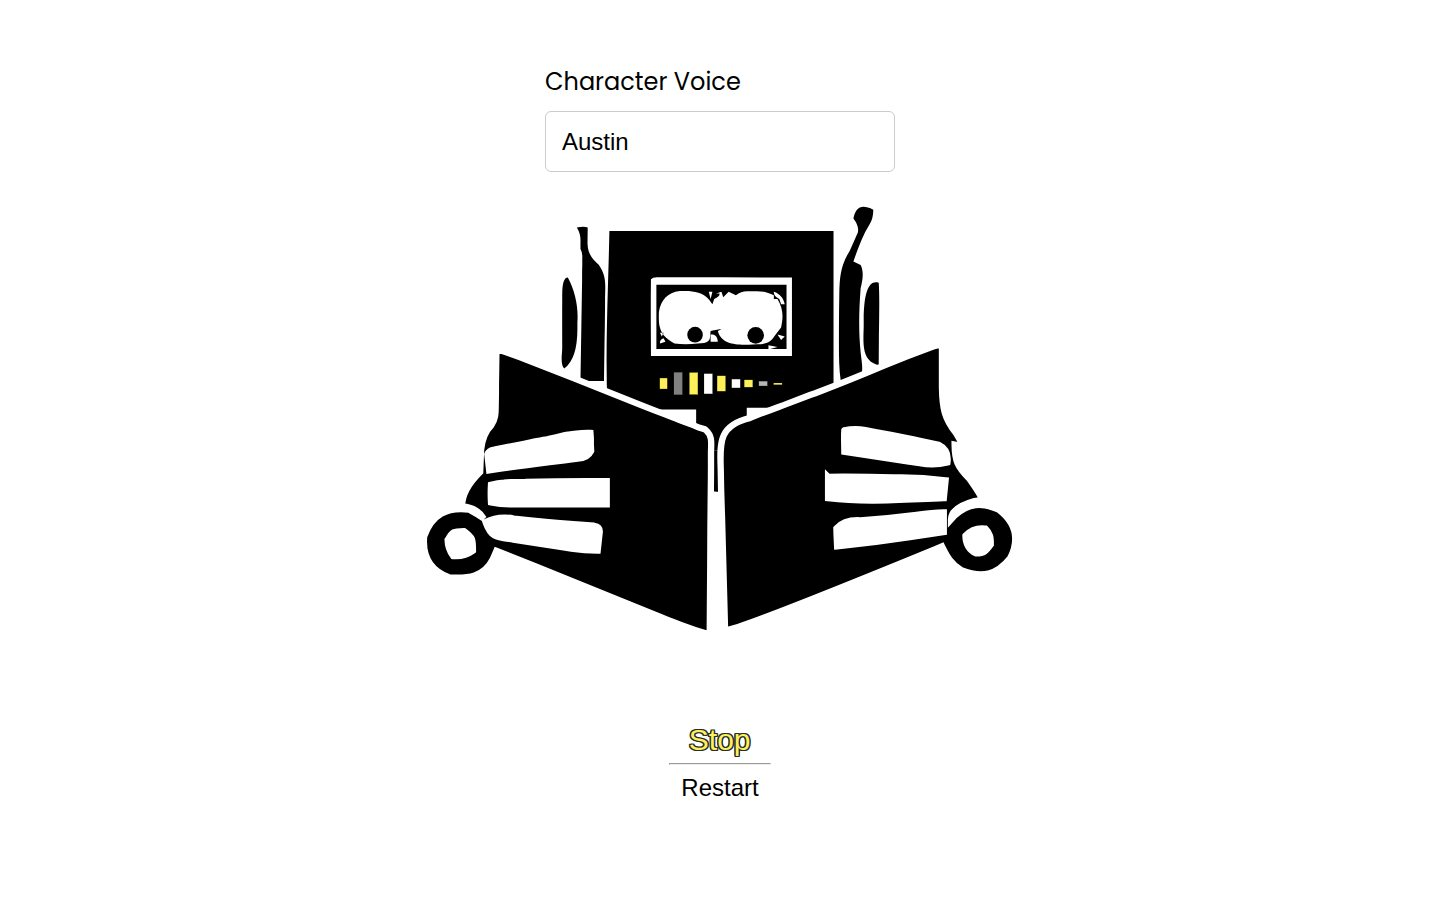
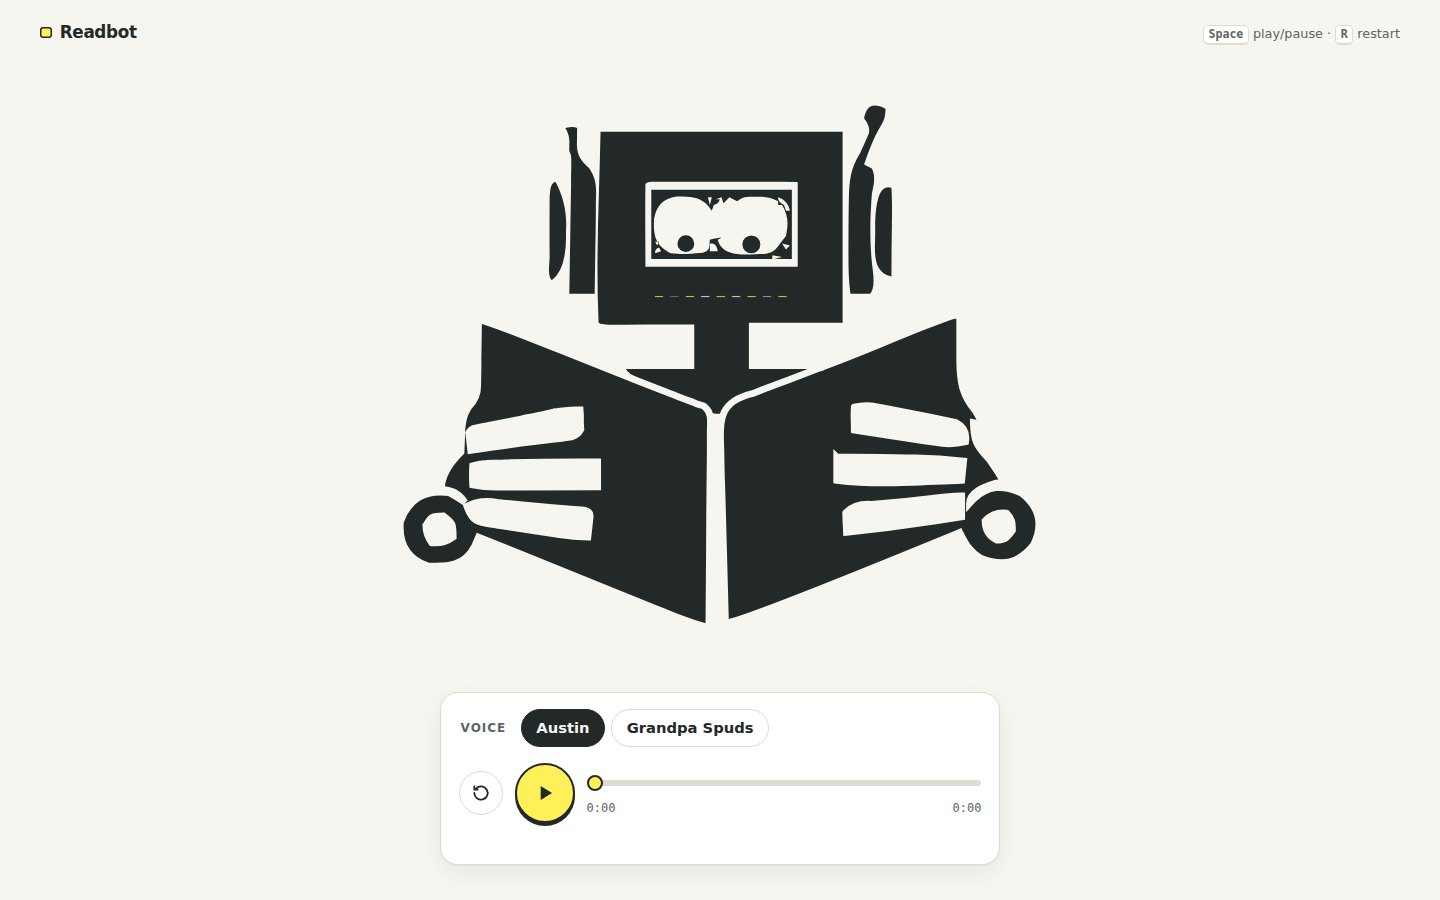
Examples: add WhenThen as second feature, Readbot update, momentum line on every build
Claude-Session: https://claude.ai/code/session_01RtmvTkGpueHcxQM5F7qZZk

diff --git a/src/components/ExamplesSection.vue b/src/components/ExamplesSection.vue
@@ -1,6 +1,6 @@
 <script setup lang="ts">
 import { computed, onBeforeUnmount, onMounted, reactive, ref } from 'vue';
-import { mdiOpenInNew, mdiPlayCircleOutline } from '@quasar/extras/mdi-v7';
+import { mdiOpenInNew, mdiPlayCircleOutline, mdiArrowRightThin } from '@quasar/extras/mdi-v7';
 import { useViewport } from '../shared/utils/viewWidth';
 import { useMainStore } from '../stores/main';
 import { TopicName } from 'src/shared/constants/topicName';
@@ -14,6 +14,8 @@ import fizzcoA from 'src/assets/examples/fizzco-a.jpg?w=720;1200&format=avif;web
 import fizzcoB from 'src/assets/examples/fizzco-b.jpg?w=720;1200&format=avif;webp;jpg&as=picture';
 import seasonalA from 'src/assets/examples/seasonal-a.jpg?w=720;1200&format=avif;webp;jpg&as=picture';
 import seasonalB from 'src/assets/examples/seasonal-b.jpg?w=720;1200&format=avif;webp;jpg&as=picture';
+import whenthenA from 'src/assets/examples/whenthen-a.jpg?w=720;1200&format=avif;webp;jpg&as=picture';
+import whenthenB from 'src/assets/examples/whenthen-b.jpg?w=720;1200&format=avif;webp;jpg&as=picture';
 import robotA from 'src/assets/examples/robot-a.jpg?w=720;1200&format=avif;webp;jpg&as=picture';
 
 const mainStore = useMainStore();
@@ -32,6 +34,8 @@ interface ShowcaseItem {
   tags: string[];
   what: string;
   why: string;
+  /** How momentum (motion, pacing, sequence) is used to make the point stick. */
+  momentum: string;
   url: string;
   /** Before / after frames. The card resolves from a to b. */
   a: PictureData;
@@ -48,8 +52,9 @@ const items: ShowcaseItem[] = [
     title: 'AgentGate',
     kind: 'Concept build',
     tags: ['AI legibility', 'Trust'],
-    what: 'An AI governance platform for autonomous agents. Scroll, and a $1,200 refund request is checked for identity, authority, and policy before it’s allowed to execute.',
-    why: 'Every team adopting AI agents is asking the same thing: what is it allowed to do, and can we see why? This makes the answer readable at a glance.',
+    what: 'AI governance for autonomous agents. A $1,200 refund request has to clear identity, authority, and policy before it can execute.',
+    why: 'Every team adopting AI agents is asking what the agent is allowed to do, and whether they can see why. This makes the answer readable at a glance.',
+    momentum: 'Each scroll resolves one check, so trust builds in the same order the system grants it.',
     url: 'https://agentgate-bpb.pages.dev/',
     a: agentgateA,
     b: agentgateB,
@@ -58,12 +63,28 @@ const items: ShowcaseItem[] = [
     featured: true,
   },
   {
+    id: 'whenthen',
+    title: 'WhenThen',
+    kind: 'Concept build',
+    tags: ['Clarity', 'Trust'],
+    what: 'A launch page for a guide on behaviour verification: proving that software does exactly what its spec says, at massive scale.',
+    why: 'As AI writes and runs more of our software, proof becomes the trust signal. This takes a dense technical idea and makes it graspable in one screen.',
+    momentum: 'Given, when, then drift in the background, then resolve into one clear next step: get the guide.',
+    url: 'https://when-then.pages.dev/',
+    a: whenthenA,
+    b: whenthenB,
+    stateA: 'The idea',
+    stateB: 'The next step',
+    featured: true,
+  },
+  {
     id: 'futureframe',
     title: 'Futureframe',
     kind: 'Concept build',
     tags: ['AI legibility', 'Trust'],
-    what: 'AI age projection you scroll through. The face changes alongside the signals driving it, with uncertainty disclosed instead of hidden.',
-    why: 'AI feels like a black box when people only see the result. Showing the “why” is what makes it believable.',
+    what: 'AI age projection where the signals behind the result stay visible, and uncertainty is disclosed instead of hidden.',
+    why: 'AI feels like a black box when people only see the answer. Showing the “why” is what makes it believable.',
+    momentum: 'Scrolling moves you through time, so the result never arrives without its reasons.',
     url: 'https://futureframe-8ep.pages.dev/',
     a: futureframeA,
     b: futureframeB,
@@ -72,11 +93,12 @@ const items: ShowcaseItem[] = [
   },
   {
     id: 'robot',
-    title: 'Robot Narrator',
-    kind: 'Built for StorytAIm',
-    tags: ['AI legibility', 'Motion'],
-    what: 'Pick a voice and press play. The narrator’s waveform moves with the AI-generated speech.',
+    title: 'Readbot',
+    kind: 'Interactive build',
+    tags: ['AI legibility'],
+    what: 'An AI narrator that visibly reads along. Pick a voice and press play.',
     why: 'AI audio is invisible by default. Visible feedback shows the system is working, and who is speaking.',
+    momentum: 'Motion tracks the audio in real time, so you always know where the story is.',
     url: ROBOT_URL,
     a: robotA,
     stateA: 'Try it here',
@@ -86,9 +108,10 @@ const items: ShowcaseItem[] = [
     id: 'fizzco',
     title: 'Fizzco',
     kind: 'Concept build',
-    tags: ['Clarity', 'Motion'],
-    what: 'A launch page where the product assembles as you scroll, so the offer lands before the copy.',
-    why: 'When the product is the message, motion can show it faster than words can.',
+    tags: ['Clarity'],
+    what: 'A launch page where the product assembles as you scroll.',
+    why: 'When the product is the message, showing beats telling. The offer lands before a word is read.',
+    momentum: 'One scroll builds the product, so understanding arrives before the copy does.',
     url: 'https://fizzco.pages.dev/',
     a: fizzcoA,
     b: fizzcoB,
@@ -99,9 +122,10 @@ const items: ShowcaseItem[] = [
     id: 'seasonal',
     title: 'Seasons',
     kind: 'Motion study',
-    tags: ['Motion'],
+    tags: ['Clarity'],
     what: 'Four seasons, each with its own weather, pace, and palette, switchable in one tap.',
-    why: 'Atmosphere without noise: motion that adds presence but never competes with the content.',
+    why: 'Atmosphere only helps if it never competes with the content. This is the restraint behind every animation I ship.',
+    momentum: 'Each season sets its own pace, carrying mood without stealing focus.',
     url: 'https://seasonal-example.pages.dev/',
     a: seasonalA,
     b: seasonalB,
@@ -110,7 +134,7 @@ const items: ShowcaseItem[] = [
   },
 ];
 
-const featured = items.find((i) => i.featured)!;
+const featured = items.filter((i) => i.featured);
 const rest = items.filter((i) => !i.featured);
 
 /* ---------- Before → after playback ---------- */
@@ -169,13 +193,13 @@ onBeforeUnmount(() => {
         <p class="kicker q-mt-none q-mb-sm">Examples</p>
         <h1 class="q-mt-none q-mb-md">Don’t take my word for it. Scroll through these.</h1>
         <p class="lead q-ma-none">
-          Working builds that turn complex, AI-driven ideas into something people can understand,
-          trust, and act on.
+          Each build makes something complex clear, trustworthy, or legible as AI, and uses
+          momentum to make it stick.
         </p>
       </header>
 
       <!-- Featured -->
-      <template v-for="it in [featured]" :key="it.id">
+      <template v-for="it in featured" :key="it.id">
         <article
           class="ex-card ex-card--featured"
           :data-card="it.id"
@@ -195,17 +219,24 @@ onBeforeUnmount(() => {
               {{ resolved[it.id] ? it.stateB : it.stateA }}
             </span>
           </a>
-          <div class="ex-body">
-            <div class="ex-meta">
-              <span class="ex-kind">{{ it.kind }}</span>
-              <span v-for="t in it.tags" :key="t" class="ex-tag">{{ t }}</span>
+          <div class="ex-body ex-body--split">
+            <div class="ex-col">
+              <div class="ex-meta">
+                <span class="ex-kind">{{ it.kind }}</span>
+                <span v-for="t in it.tags" :key="t" class="ex-tag">{{ t }}</span>
+              </div>
+              <h2 class="q-my-none">{{ it.title }}</h2>
+              <p class="ex-what q-ma-none">{{ it.what }}</p>
+              <a class="ex-link" :href="it.url" target="_blank" rel="noopener noreferrer">
+                Open live <q-icon :name="mdiOpenInNew" size="16px" />
+              </a>
             </div>
-            <h2 class="q-my-none">{{ it.title }}</h2>
-            <p class="ex-what q-ma-none">{{ it.what }}</p>
-            <p class="ex-why q-ma-none"><b>Why it’s here</b>{{ it.why }}</p>
-            <a class="ex-link" :href="it.url" target="_blank" rel="noopener noreferrer">
-              Open live <q-icon :name="mdiOpenInNew" size="16px" />
-            </a>
+            <div class="ex-col">
+              <p class="ex-why q-ma-none"><b>Why it’s here</b>{{ it.why }}</p>
+              <p class="ex-momentum q-ma-none">
+                <q-icon :name="mdiArrowRightThin" size="18px" /><span><b>Momentum</b> {{ it.momentum }}</span>
+              </p>
+            </div>
           </div>
         </article>
       </template>
@@ -263,6 +294,9 @@ onBeforeUnmount(() => {
             <h2 class="q-my-none">{{ it.title }}</h2>
             <p class="ex-what q-ma-none">{{ it.what }}</p>
             <p class="ex-why q-ma-none"><b>Why it’s here</b>{{ it.why }}</p>
+            <p class="ex-momentum q-ma-none">
+              <q-icon :name="mdiArrowRightThin" size="18px" /><span><b>Momentum</b> {{ it.momentum }}</span>
+            </p>
             <a class="ex-link" :href="it.url" target="_blank" rel="noopener noreferrer">
               Open live <q-icon :name="mdiOpenInNew" size="16px" />
             </a>
@@ -357,26 +391,16 @@ $line: rgba(18, 96, 240, 0.18);
     aspect-ratio: 2 / 1;
   }
 
-  .ex-body {
+  .ex-body--split {
     grid-template-columns: minmax(0, 1fr) minmax(0, 1fr);
-    column-gap: 1.25rem;
+    gap: 1.25rem;
     padding: 1.2rem 1.35rem 1.35rem;
+  }
 
-    > .ex-meta,
-    > h2,
-    > .ex-what {
-      grid-column: 1;
-    }
-
-    > .ex-why {
-      grid-column: 2;
-      grid-row: 1 / span 3;
-      align-self: start;
-    }
-
-    > .ex-link {
-      grid-column: 2;
-    }
+  .ex-col {
+    display: grid;
+    align-content: start;
+    gap: 0.55rem;
   }
 
   h2 {
@@ -465,7 +489,7 @@ $line: rgba(18, 96, 240, 0.18);
   width: 100%;
   padding: 0;
   border: 0;
-  background: #fff;
+  background: #f6f5f1;
   cursor: pointer;
 
   .ex-frame img {
@@ -491,14 +515,13 @@ $line: rgba(18, 96, 240, 0.18);
   box-shadow: 0 8px 20px rgba(18, 96, 240, 0.3);
 }
 
-/* Same sizing the narrator iframe has always used. */
+/* Readbot needs ~860px at this width before its player controls stop overflowing. */
 .narrator-container {
   display: flex;
   justify-content: center;
-  height: 500px;
-  min-height: 500px;
-  padding: 1rem;
-  background: #fff;
+  height: 860px;
+  min-height: 860px;
+  background: #f6f5f1;
 
   .narrator {
     width: 100%;
@@ -573,6 +596,26 @@ $line: rgba(18, 96, 240, 0.18);
   }
 }
 
+.ex-momentum {
+  display: flex;
+  gap: 0.35rem;
+  align-items: flex-start;
+  color: $muted;
+  font-size: 0.82rem;
+  line-height: 1.4;
+
+  .q-icon {
+    flex: none;
+    margin-top: 0.05rem;
+    color: $blue;
+  }
+
+  b {
+    color: $ink;
+    font-weight: 700;
+  }
+}
+
 .ex-link {
   display: inline-flex;
   gap: 0.3rem;
@@ -629,22 +672,13 @@ $line: rgba(18, 96, 240, 0.18);
     grid-template-columns: 1fr;
   }
 
-  .ex-card--featured .ex-body {
+  .ex-card--featured .ex-body--split {
     grid-template-columns: 1fr;
-
-    > * {
-      grid-column: 1 !important;
-      grid-row: auto !important;
-    }
-  }
-
-  .ex-close {
-    flex-direction: column;
-    align-items: stretch;
   }
 
   .narrator-container {
-    padding: 0.5rem;
+    height: 600px;
+    min-height: 600px;
   }
 }
 
